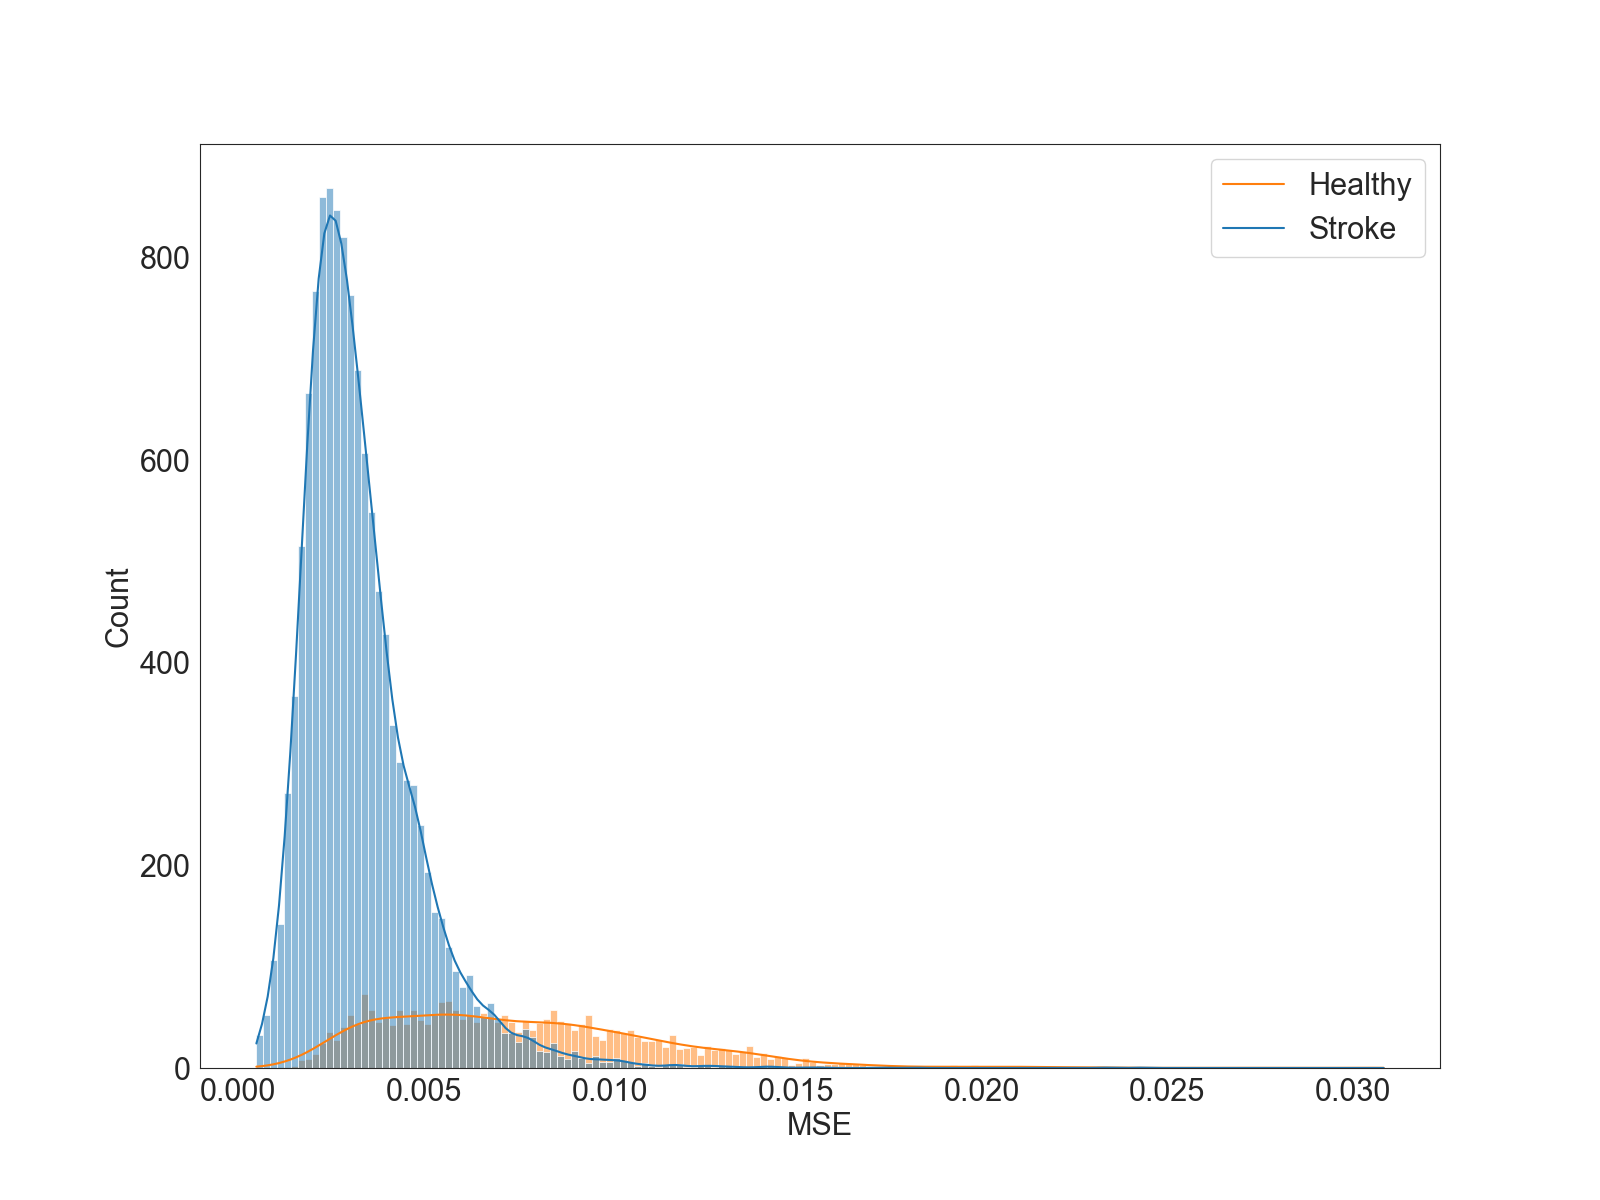
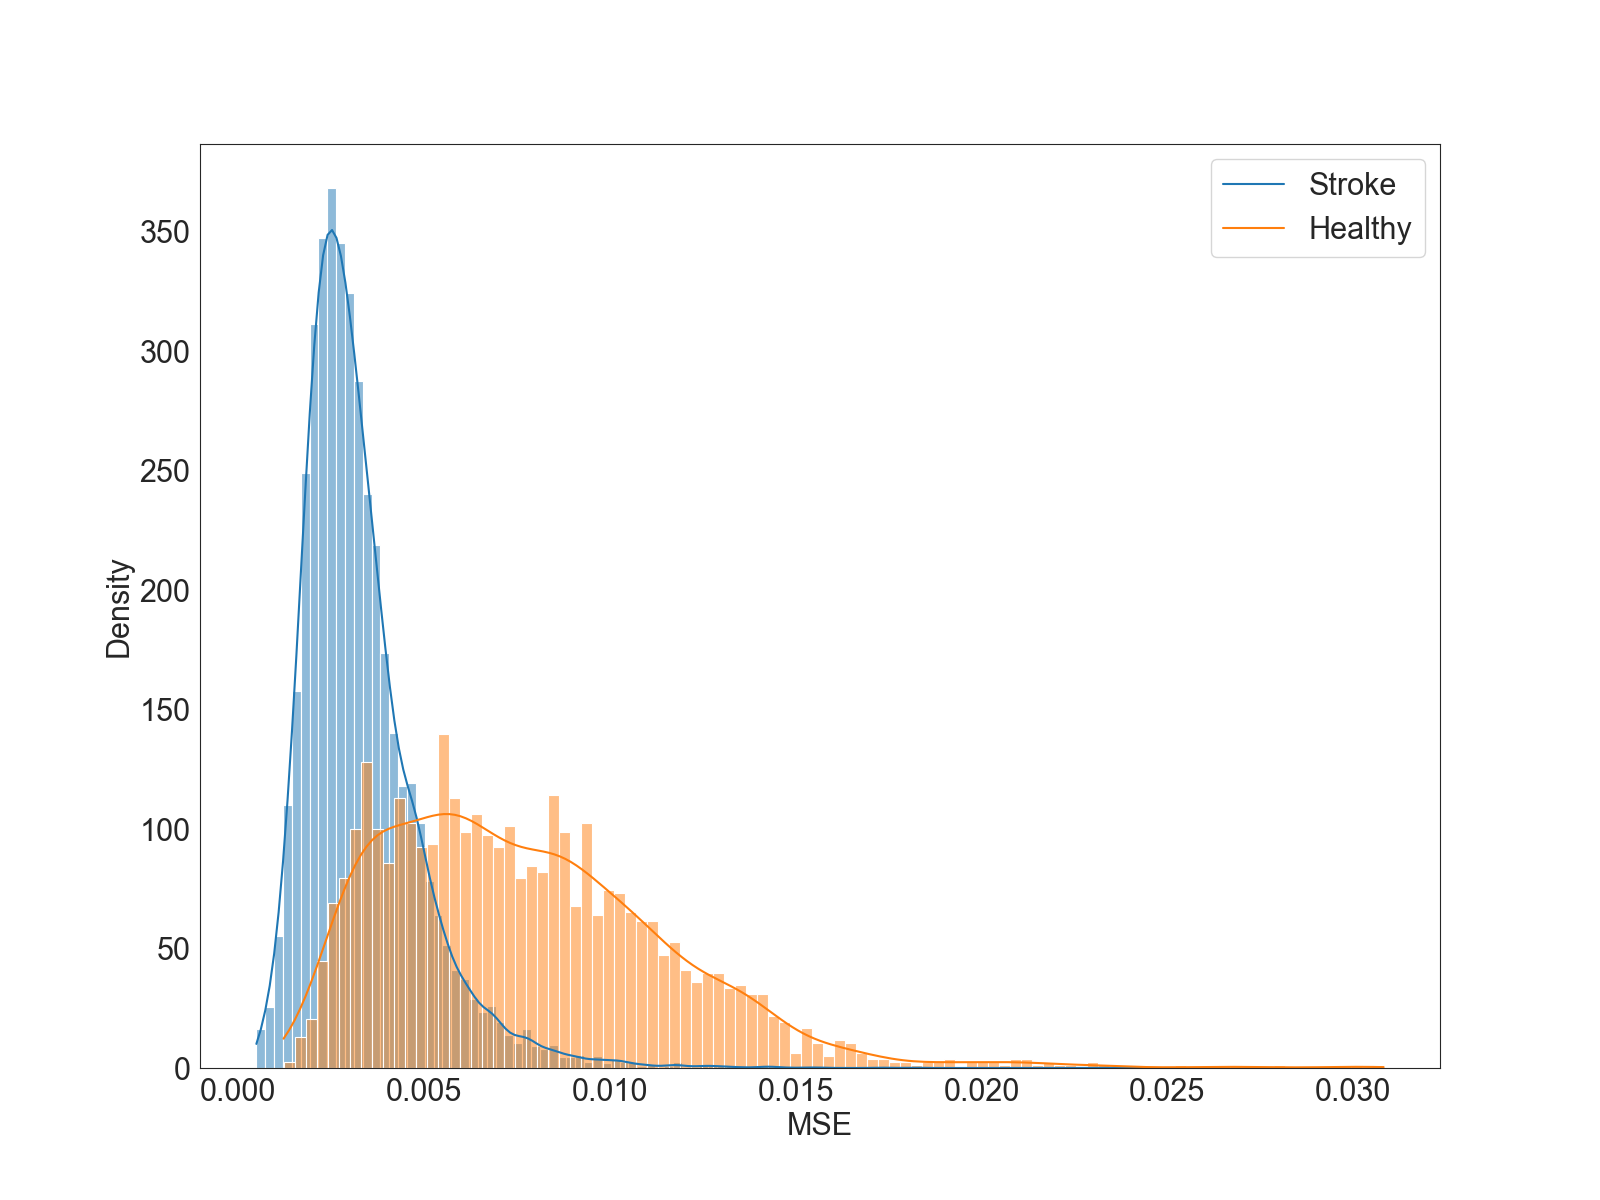
updated functions

diff --git a/Functions/Visualise.py b/Functions/Visualise.py
@@ -16,8 +16,11 @@ sns.set_style("white")
 
 def histplot_hs(df_latent):
     fig, ax = plt.subplots(figsize = (16,12))
-    sns.histplot(data=df_latent, x='MSE', hue='condition', kde=True, ax = ax)
-    mylabels = ['Healthy', 'Stroke']
+    sns.histplot(data=df_latent.loc[df_latent['condition'] == 'S'], x='MSE',
+                 ax=ax,  stat='density', bins=100, kde = True)
+    sns.histplot(data=df_latent.loc[df_latent['condition'] == 'H'], x='MSE',
+                 ax=ax,  stat='density', bins=100, kde=True)
+    mylabels = ['Stroke', 'Healthy']
     ax.legend(labels=mylabels)
     fig.savefig('Figures/histogram_h_s.png')
 
@@ -95,10 +98,44 @@ def violin(df_latent, columns):
 
     fig, ax = plt.subplots(2,figsize=(16, 12))
     sns.violinplot(data=first, y='value', x='Variable',
-                   hue='Groups', split=True, ax=ax[0])
+                   hue='Groups', split=True, ax=ax[0], inner=None)
+    ax[0].legend(loc='upper right')
     sns.violinplot(data=second, y='value', x='Variable',
-                   hue='Groups', split=True, ax=ax[1])
+                   hue='Groups', split=True, ax=ax[1], inner=None)
+    ax[1].legend(loc='upper right')
     fig.savefig('Figures/violin.png')
+
+def tmp(data_np):
+    import matplotlib.pyplot as plt
+    plt.rcParams.update({'font.size': 22})
+    epochLength = 512
+    sample_freq = 100
+    file = np.random.randint(data_np.shape[0])
+
+    # Define x-axis in time per second
+    x_axis = np.arange(epochLength) / sample_freq
+
+    # Top panel original signal, bottom panel reconstructed signal
+    fig, ax = plt.subplots(3, figsize=(8, 6))
+    ax[0].plot(x_axis, data_np[3164, :epochLength, 1])
+    ax[1].plot(x_axis, data_np[3164, :epochLength, 1])
+    ax[2].plot(x_axis, data_np[3164, :epochLength, 1])
+    ax[0].legend(['Acceleration Anterior-Posterior'],
+                       loc='upper center',
+                       bbox_to_anchor=(0.5, 2.0),
+                       ncol=6,
+                       fancybox=True)
+    # ax[0].set_ylim(-1, 1)
+    # ax.set_title('Acceleration', fontsize=20)
+    # ax[0].tick_params(axis='both', which='major', labelsize=16)
+    ax[1].set_ylabel('Normalised acceleration [G]')
+    ax[0].set_xticks([])
+    ax[1].set_xticks([])
+    ax[0].set_xlabel('')
+    ax[1].set_xlabel('')
+    ax[2].set_xlabel('Time in seconds')
+    fig.tight_layout()
+    fig.savefig('SampleData.png', dpi = 300)
     
 def original_reconstructed(data_np, reconstructed_data):
     epochLength = 512
@@ -112,23 +149,34 @@ def original_reconstructed(data_np, reconstructed_data):
     fig, ax = plt.subplots(2, figsize=(12, 8))
 
     # Top panel
-    ax[0].plot(x_axis, data_np[file, :epochLength, :])
-    leg = ax[0].legend(['Ax', 'Ay', 'Az', 'Gx', 'Gy', 'Gz'],
+    colors = ['tab:red', 'tab:blue', 'tab:green']
+    for i in range(data_np[file, :epochLength, :3].shape[1]):
+        ax[0].plot(x_axis, data_np[file, :epochLength, i], color = colors[i])
+    for i in range(data_np[file, :epochLength, :3].shape[1]):
+        ax[0].plot(x_axis, reconstructed_data[file,
+               :epochLength, i], linestyle='dashed', color = colors[i])
+    leg = ax[0].legend(['Ax', 'Ay', 'Az'],
                        loc='upper center',
                        bbox_to_anchor=(0.5, 1),
                        ncol=6,
                        fancybox=True,
                        fontsize=16)
-    ax[0].set_ylim(-1, 1)
-    ax[0].set_title('Original signal', fontsize=20)
+    # ax[0].set_ylim(-1, 1)
+    ax[0].set_title('Acceleration', fontsize=20)
     ax[0].tick_params(axis='both', which='major', labelsize=16)
+    ax[0].set_ylabel('Normalised values', fontsize=16)
 
     # Bottom panel
-    ax[1].plot(x_axis, reconstructed_data[file, :epochLength, :])
-    ax[1].set_ylim(-1, 1)
-    ax[1].set_title('Reconstructed signal', fontsize=20)
-    ax[1].set_xlabel('Time [s]', fontsize=16)
-    leg = ax[1].legend(['Ax', 'Ay', 'Az', 'Gx', 'Gy', 'Gz'],
+    for i in range(data_np[file, :epochLength, :3].shape[1]):
+        ax[1].plot(x_axis, data_np[file, :epochLength, i+3], color=colors[i])
+    for i in range(data_np[file, :epochLength, :3].shape[1]):
+        ax[1].plot(x_axis, reconstructed_data[file,
+                                              :epochLength, i+3], linestyle='dashed', color=colors[i])
+    # ax[1].set_ylim(-1, 1)
+    ax[1].set_title('Angular velocity', fontsize=20)
+    ax[1].set_xlabel('Time in seconds', fontsize=16)
+    ax[1].set_ylabel('Normalised values', fontsize=16)
+    leg = ax[1].legend(['Gx', 'Gy', 'Gz'],
                        loc='upper center',
                        bbox_to_anchor=(0.5, 1),
                        ncol=6,

diff --git a/Main.py b/Main.py
@@ -31,19 +31,19 @@ from Functions.Visualise import original_reconstructed, violin, visualise_n_late
 from Functions.ICC import calc_icc
 from Functions.Progression import progression
 from Functions.To_latex import to_latex
-from sklearn.metrics import mean_squared_error
+from sklearn.metrics import mean_squared_error, mean_absolute_error, mean_absolute_percentage_error
 
 # General settings
 epochLength = 512
-path = '/Users/richard/Desktop/Variational autoencoder/Data/Processed_data/512_2023_03_17'
+path = 'Data/Processed_data/512_2023_03_17'
 numberOfColumns = 6
-latentFeatures = 15
+latentFeatures = 12
 trainModel = True
 
 # %%
 ###### proces and save data ######
 # Uncomment this to create a new dataset
-# proces_data(path, visualise=False)
+proces_data(path, visualise=False)
 data_np = np.load('Data/Predicted_data/512.npy', allow_pickle=True)
 
 # Use only data of stroke
@@ -91,18 +91,26 @@ reconstructed_data = decoder.predict(latent_layer[:, 7:])
 
 # Calculate error
 mse = np.zeros(len(data_np))
+# mse_acc = np.zeros(len(data_np))
+# mse_gyr  = np.zeros(len(data_np))
 for i in range(len(data_np)):
     mse[i] = mean_squared_error(data_np[i, :512, :], reconstructed_data[i])
+    # mse_acc[i] = mean_absolute_error(data_np[i, :512, 0:3], reconstructed_data[i,:, 0:3])
+    # mse_gyr[i] = mean_absolute_error(data_np[i, :512, 3:6], reconstructed_data[i,:, 3:6])
+
+# print(f'Mean error acceleration {np.mean(mse_acc)*4} std: ({np.std(mse_acc)*4})')
+# print(f'Mean error angular velocity {np.mean(mse_gyr)*13} std: ({np.std(mse_gyr)*13})')
+
 
 # Visualise data
-# original_reconstructed(data_np, reconstructed_data)
+original_reconstructed(data_np, reconstructed_data)
 
 # Correct format latent layer
 latent_features = latent_layer.shape[1] - 7
 df_latent = correct_format(latent_layer, mse)
 
 # make histplot mse
-# histplot_hs(df_latent)
+histplot_hs(df_latent)
 
 # Calculate ICC-values
 calc_icc(df_latent, latent_features, side='R', per_n_measurement=50)
@@ -117,5 +125,8 @@ violin(df_latent, columns=df_latent.columns[5:-1].values)
 
 # Print infomration to LaTeX
 to_latex(df_latent, per_n_measurement=50)
+
+df_latent.corr().round(2).to_excel('Results/Correlation/correlation.xlsx')
+
 
 # %%

diff --git a/Functions/Proces_data.py b/Functions/Proces_data.py
@@ -5,8 +5,8 @@ import os
 import numpy as np
 import pandas as pd
 import matplotlib.pyplot as plt
+from scipy import signal
 import scipy
-
 
 def filt_band(norm_data,  samplefreq=0.01, cutoff_h=5, cutoff_l=0.01, order=1):
     '''
@@ -99,7 +99,7 @@ def correct_format(latent_layer, mse):
         
     # Add gait speed healthy
     sensor_healthy = pd.read_excel(
-        '/Users/richard/Desktop/Variational autoencoder/Data/Sensor_data_outcomes/Healthy.xlsx')
+        'Data/Sensor_data_outcomes/Healthy.xlsx')
     sensor_healthy.rename(columns={'Subjectnumber': 'Subj',
                                        'TestType': 'T'}, inplace=True)
     df_latent.loc[df_latent['Subj'].isin(
@@ -135,7 +135,7 @@ def proces_data(path, visualise=False):
         if (file.endswith('.csv') and ((file.startswith('S') or file.startswith('H')))):
             try:
                 data = pd.read_csv(f'{path}/{file}', index_col=0)
-                data = scipy.signal.resample(data, 512)
+                data = signal.resample(data, 512)
                 if data[:, 0].mean() < 0:
                     data[:, [0, 1, 3, 4]] *= -1
                 data = pd.DataFrame(data, columns=columns)
@@ -197,10 +197,14 @@ def proces_data(path, visualise=False):
     data_np = np.moveaxis(data_np, 2, +1)
 
     # Normalise acceleration signals to -1, 1
+    # MIN data_np[:, :512, :3].min()
+    # MAX data_np[:, :512, :3].max()
     data_np[:, :512, :3] = (data_np[:, :512, :3] - data_np[:, :512, :3].min()) / \
         (data_np[:, :512, :3].max() -
             data_np[:, :512, :3].min()) * 2 - 1
 
+    # MIN data_np[:, :512, 3:].min()
+    # MAX data_np[:, :512, 3:].max()
     # Normalisation gyroscope signals to -1,1
     data_np[:, :512, 3:] = (data_np[:, :512, 3:] - data_np[:, :512, 3:].min()) / \
         (data_np[:, :512, 3:].max() -

diff --git a/Functions/Progression.py b/Functions/Progression.py
@@ -55,6 +55,8 @@ def characteristics(df_latent):
     last = df_latent.loc[df_latent['Moment'] == 'last']
     diff = first.merge(last, on=['Subj', 'Aid'],
                        how='left', suffixes=(None, '_last')).dropna(subset = ['L0'])
+    first = first.loc[first['Subj'].isin(last['Subj'])]
+
     # check how many participants improved on gait
     column = 'KMPH R'
     mdc = 0.494 /3.6
